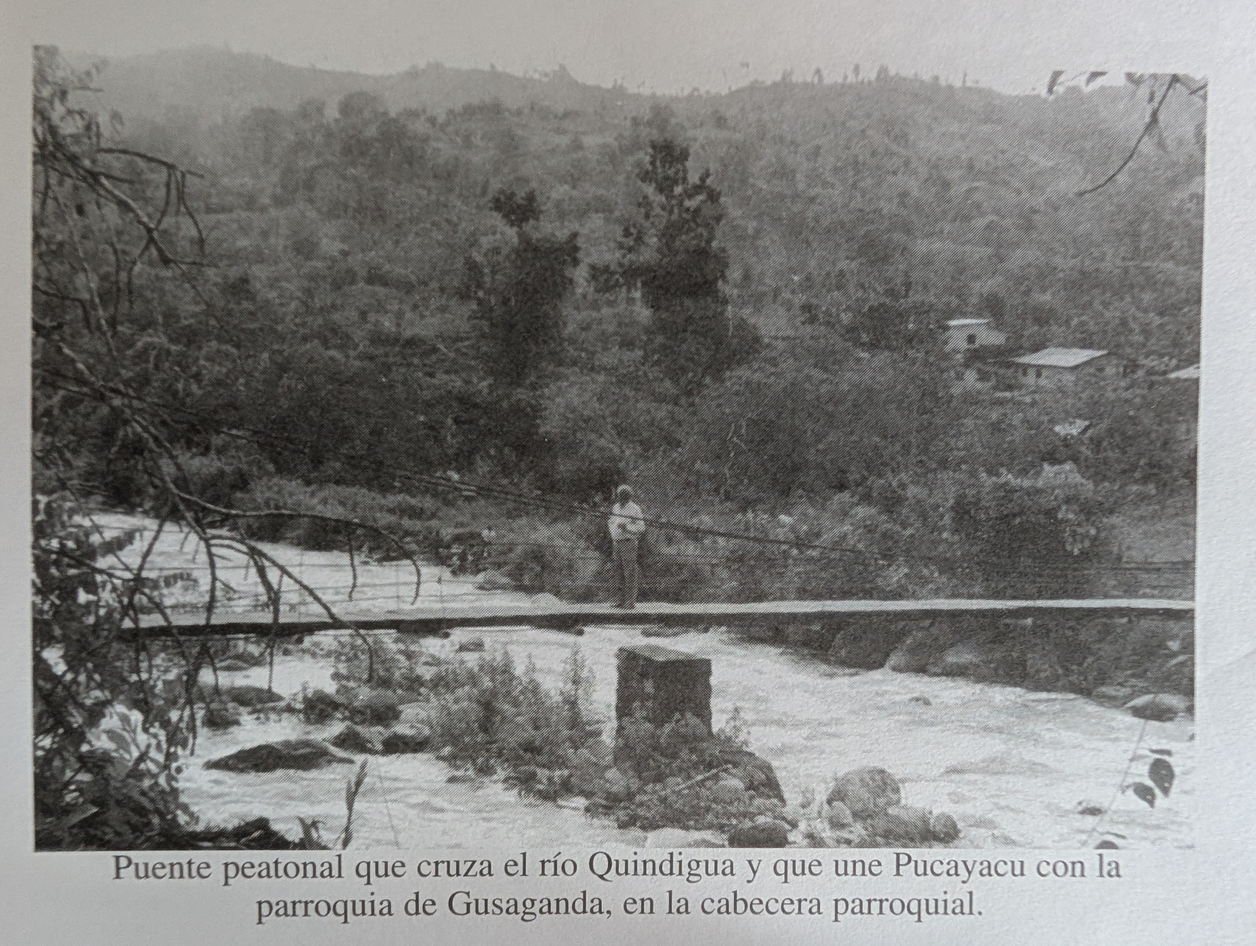
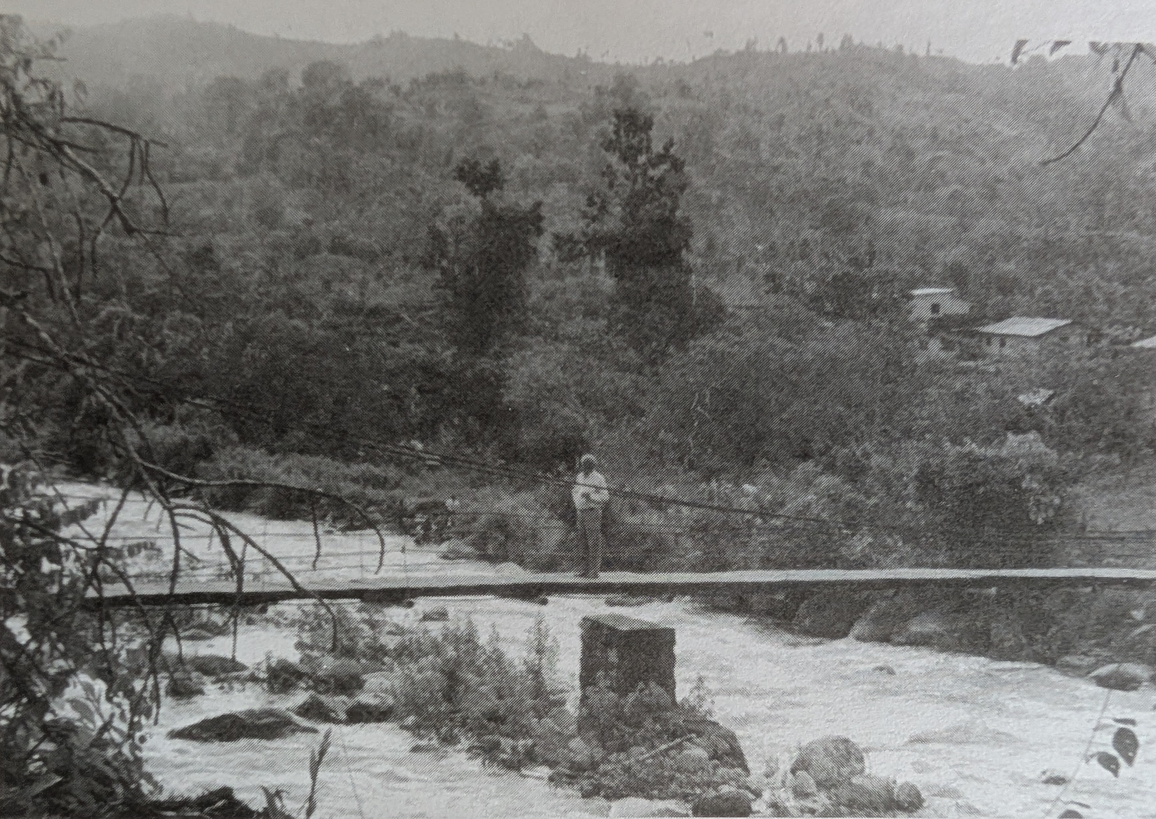
more styles

diff --git a/index.html b/index.html
@@ -24,19 +24,23 @@
 </head>
 <body onload="htmlTableOfContents();">
     <div class="cover">
-            <img src="" alt="">
-            <h1>Pucayacu, Un Testimonio Propio</h1>
+        <img src="images/abuelo.jpg" alt="Nestor en la mitad de el puente peatonal que cruza el rio Quindigua en la parroquia Pucayacu" class="cover-image">
+        <div class="cover-text">
+            <h1><span>Pucayacu</span><br>Un Testimonio Propio</h1>
+            <p class="author">Nestor Ascázubi Rosas</p>
+            <p class="copy">2003</p>
+        </div>
     </div>
     <main>
         <section class="dedication">
-                <span>Dedicatoria</span>
-                <p>Este trabajo lo dedico agradecido a mis padres, quienes descansan en paz y eternamente en el cementerio de la parroquia y que fueron quienes forjaron mi cracter y mi espiritu; a mi entranable maestro, consejo y suegro Don Jorge Penaherrera Segovia, quien me endoso sus conocimientos administrativos; a mi esposa y a mis hijos que han respondido satisfactoriamente a los suenos que inpiraron mi vida.</p>
+            <span>Dedicatoria</span>
+            <p>Este trabajo lo dedico agradecido a mis padres, quienes descansan en paz y eternamente en el cementerio de la parroquia y que fueron quienes forjaron mi cracter y mi espiritu; a mi entranable maestro, consejo y suegro Don Jorge Penaherrera Segovia, quien me endoso sus conocimientos administrativos; a mi esposa y a mis hijos que han respondido satisfactoriamente a los suenos que inpiraron mi vida.</p>
         </section>
         <section class="prolog">
-                <span>Prólogo</span>
-                <p>A través de la historia, la familia núcleo de la sociedad ha ido desarrollándose de manera vertiginosa, a tal punto que en la actualidad tiende a desintegrase, por eso se pone hincapié en el dicho "Todo tiempo pasado fue mejor”</p>
-                <p>Tengo muy presente en mi memoria las grandes cualidades de una mujer, que con mucho cariño, abnegación, dedicación e inteligencia, supo compartir su vida con un hombre de gran temperamento y rectitud, quien equilibró la balanza del hogar, ella era mi madre, que conjuntamente con mi padre forjaron en mi una persona muy inquieta y de carácter definido con ciertas condiciones de líder; razón por la cual, después de haber logrado muchas metas que me interesó, presento a través de este libro un testimonio de vida, basado en la máxima "Pueblo que no conoce su historia la volverá a repetir”</p>
-                <p>Mediante el presente trabajo, pretendo narrar la historia de mi parroquia Pucayacu, toda vez que se ha publicado varios artículos periodísticos que contienen algunas imprecisiones, que me causaron mucha sorpresa e inquietud, a tal punto que decidí escribir este libro, contando las vivencias de un pueblo en búsqueda de su identidad.</p>
+            <span>Prólogo</span>
+            <p>A través de la historia, la familia núcleo de la sociedad ha ido desarrollándose de manera vertiginosa, a tal punto que en la actualidad tiende a desintegrase, por eso se pone hincapié en el dicho "Todo tiempo pasado fue mejor”</p>
+            <p>Tengo muy presente en mi memoria las grandes cualidades de una mujer, que con mucho cariño, abnegación, dedicación e inteligencia, supo compartir su vida con un hombre de gran temperamento y rectitud, quien equilibró la balanza del hogar, ella era mi madre, que conjuntamente con mi padre forjaron en mi una persona muy inquieta y de carácter definido con ciertas condiciones de líder; razón por la cual, después de haber logrado muchas metas que me interesó, presento a través de este libro un testimonio de vida, basado en la máxima "Pueblo que no conoce su historia la volverá a repetir”</p>
+            <p>Mediante el presente trabajo, pretendo narrar la historia de mi parroquia Pucayacu, toda vez que se ha publicado varios artículos periodísticos que contienen algunas imprecisiones, que me causaron mucha sorpresa e inquietud, a tal punto que decidí escribir este libro, contando las vivencias de un pueblo en búsqueda de su identidad.</p>
         </section>
         <section class="chapter">
             <h2>Capítulo I<br> Información Histórica</h2>
@@ -100,7 +104,7 @@
             <p>En el Registro Oficial.No. 338 del 14.de Octubre de 1949 se publica el Acuerdo Presidencial No. 459 que textualmente dice:</p>
 
             <blockquote class="insert">
-                <h4>Acuerdos</h4>
+                <h4 class="text-center">Acuerdos</h4>
                 <strong>No.459</strong>
 
                 <strong>El Presidente Constitucional De La República,</strong>
@@ -344,7 +348,7 @@
 
             <p>Esta producción a experimentado un desarrollo sostenido en el tiempo; puesto que, hasta la actualidad y por mucho tiempo mas, su aporte a la economía de la región sigue y seguirá siendo importante.</p>
 
-            <p>El aguardiente, otro producto de la caña de azúcar, lo convirtió en el mayor productor de la Provincia de Cotopaxi con propiedades o haciendas como <i>La Florida</i>, actualmente perteneciente a la parroquia Guasaganda, con producción superior a mil litros diarios en zafras de hasta ciento veinte mil litros, lo cual le convertía en la e a la parroquia Guasaganda, con producción superior a mil litros diarios en zafras de hasta ciento veinte mil litros, lo cual le convertía en la más grande de la provincia. Las propiedades mas importantes en la producción de aguardiente en las décadas del 50 y 60, época de su mayor auge fueron: La Unión, de Alejandro León; La Argentina, de Gustavo Chávez; La Palma, de Segundo Pacheco y EL Brasil, de Leopoldo de la Guerra.</p>
+            <p>El aguardiente, otro producto de la caña de azúcar, lo convirtió en el mayor productor de la Provincia de Cotopaxi con propiedades o haciendas como <i>La Florida</i>, actualmente perteneciente a la parroquia Guasaganda, con producción superior a mil litros diarios en zafras de hasta ciento veinte mil litros, lo cual le convertía en la e a la parroquia Guasaganda, con producción superior a mil litros diarios en zafras de hasta ciento veinte mil litros, lo cual le convertía en la más grande de la provincia. Las propiedades mas importantes en la producción de aguardiente en las décadas del 50 y 60, época de su mayor auge fueron: La Unión, de Alejandro León; La Argentina, de Gustavo Chávez; La Palma, de Segundo Pacheco y El Brasil, de Leopoldo de la Guerra.</p>
 
             
 

diff --git a/styles.css b/styles.css
@@ -64,6 +64,19 @@ h1, h2, h3, h4, h5, h6 {
   --f-h2: 3.5rem;
   --f-h3: 2rem;
   --f-h4: 1.5rem;
+
+  --light-blue: #c1e4dd50;
+  --dark-blue: #9bbdb63b;
+  --yellow: wheat;
+  --light-yellow: #f8f5f0;
+  --accent-yellow: #c1aa88;
+  --dark-gray: #1e1e1e;
+  --light-gray: #1e1e1ecd;
+}
+
+::selection {
+  color: var(--light-yellow);
+  background: var(--dark-gray);
 }
 
 body {
@@ -72,15 +85,48 @@ body {
   grid-template-columns: 1fr clamp(350px, 70ch, 100%) 1fr;
   font-size: 22px;
   font-family: "EB Garamond", Georgia, 'Times New Roman', Times, serif;
+  background-color:var(--light-yellow);
+  color: var(--dark-gray);
 }
 
 .cover {
+  position: relative;
   grid-column: 1 / 4;
   display: flex;
   justify-content: center;
   align-items: center;
-  background-color:wheat;
   height: 100svh;
+
+  & img {
+    display: block;
+    object-fit: cover;
+    height: 100%;
+    width: 100%;
+  }
+
+  & .cover-text {
+    position: absolute;
+    width: 100%;
+    height: 100%;
+    background-color: rgba(0, 0, 0, 0.25);
+    color: var(--yellow);
+    top: 0;
+    left: 0;
+    display: flex;
+    justify-content: start;
+    padding-top: 15vh;
+    align-items: center;
+    flex-direction: column;
+
+    & span {
+      font-size: 8rem;
+    }
+
+    & .author {
+      text-align: center;
+      font-size: 2rem;
+    }
+  }
 }
 
 main {
@@ -94,15 +140,16 @@ main {
   grid-column:  1 / 4;
   position: sticky;
   bottom: 0;
-  background: white;
   padding-inline: var(--p-sm);
+  transform: translateY(100%);
+  font-size: 1.125rem;
 }
 
 .toc-handle {
   display: block;
   text-align: center;
   border: none;
-  background-color: aliceblue;
+  background-color: var(--light-blue);
   width: 100%;
   cursor: pointer;
 }
@@ -110,7 +157,7 @@ main {
 .toc-index {
   display: none;
   margin-bottom: 1rem;
-  color: gray;
+  color: #6e6e6e;
 }
 
 #toc {
@@ -118,7 +165,7 @@ main {
   min-width: 20ch;
   display: flex;
   flex-direction: column;
-  gap: .5rem;
+  gap: 0.2rem;
   
   .h3,
   .h4 {
@@ -126,13 +173,27 @@ main {
   }
 
   a {
-    text-decoration: none;
-    color: inherit;
+    display: inline-block;
+    text-decoration-line: none;
+    text-decoration-color: transparent;
+    text-decoration-thickness: 2px;
+    color: var(--light-gray);
+    cursor: pointer;
+    padding-block: .25rem;
+    border-radius: .25rem;
+    transition: text-decoration-color .3s ease, color .3s ease;
+    &:hover {
+      text-decoration-line: underline;
+      text-decoration-color: var(--accent-yellow);
+      text-decoration-thickness: 3px;
+      color: var(--dark-gray);
+
+    }
   }
 }
 
 section {
-  margin-block: 6rem;
+  margin-block: 8rem;
 }
 
 h1 {
@@ -176,9 +237,12 @@ strong {
 
 .insert {
   padding: 1rem;
-  background-color:antiquewhite;
-  border: 1px solid gold;
+  background-color: white;
+  border: 1px solid #00000017;
   margin-block: 2rem;
+  border-radius: 4px;
+  background: radial-gradient(white,#fffdf9);
+  box-shadow: 2px 4px 10px #00000017;
 }
 
 .col-2 {
@@ -209,26 +273,28 @@ strong {
   padding: 2rem;
   margin-block: 2rem;
   position: relative;
+  font-style:oblique;
+  text-align: justify;
 
   &::before,
   &::after {
     position: absolute;
     font-size: 7rem;
-    opacity: 0.5;
     z-index: -1;
     line-height: 1;
+    color: var(--accent-yellow);
   }
 
   &::before {
     content: '“';
     top: -18px;
-    left: 0;
+    left: -14px;
   }
 
   &::after {
     content: '”';
     bottom: -60px;
-    right: 8px;
+    right: 18px;
   }
 }
 
@@ -244,6 +310,7 @@ strong {
     bottom: unset;
     padding-inline: unset;
     top:0;
+    transform: unset;
   }
   .toc-handle {
     display: none;
@@ -258,7 +325,7 @@ strong {
   }
   .insert,
   .quote {
-    padding-inline: 3rem;
+    padding-inline: 2.5rem;
     padding-block: 2rem;
   }
 }
